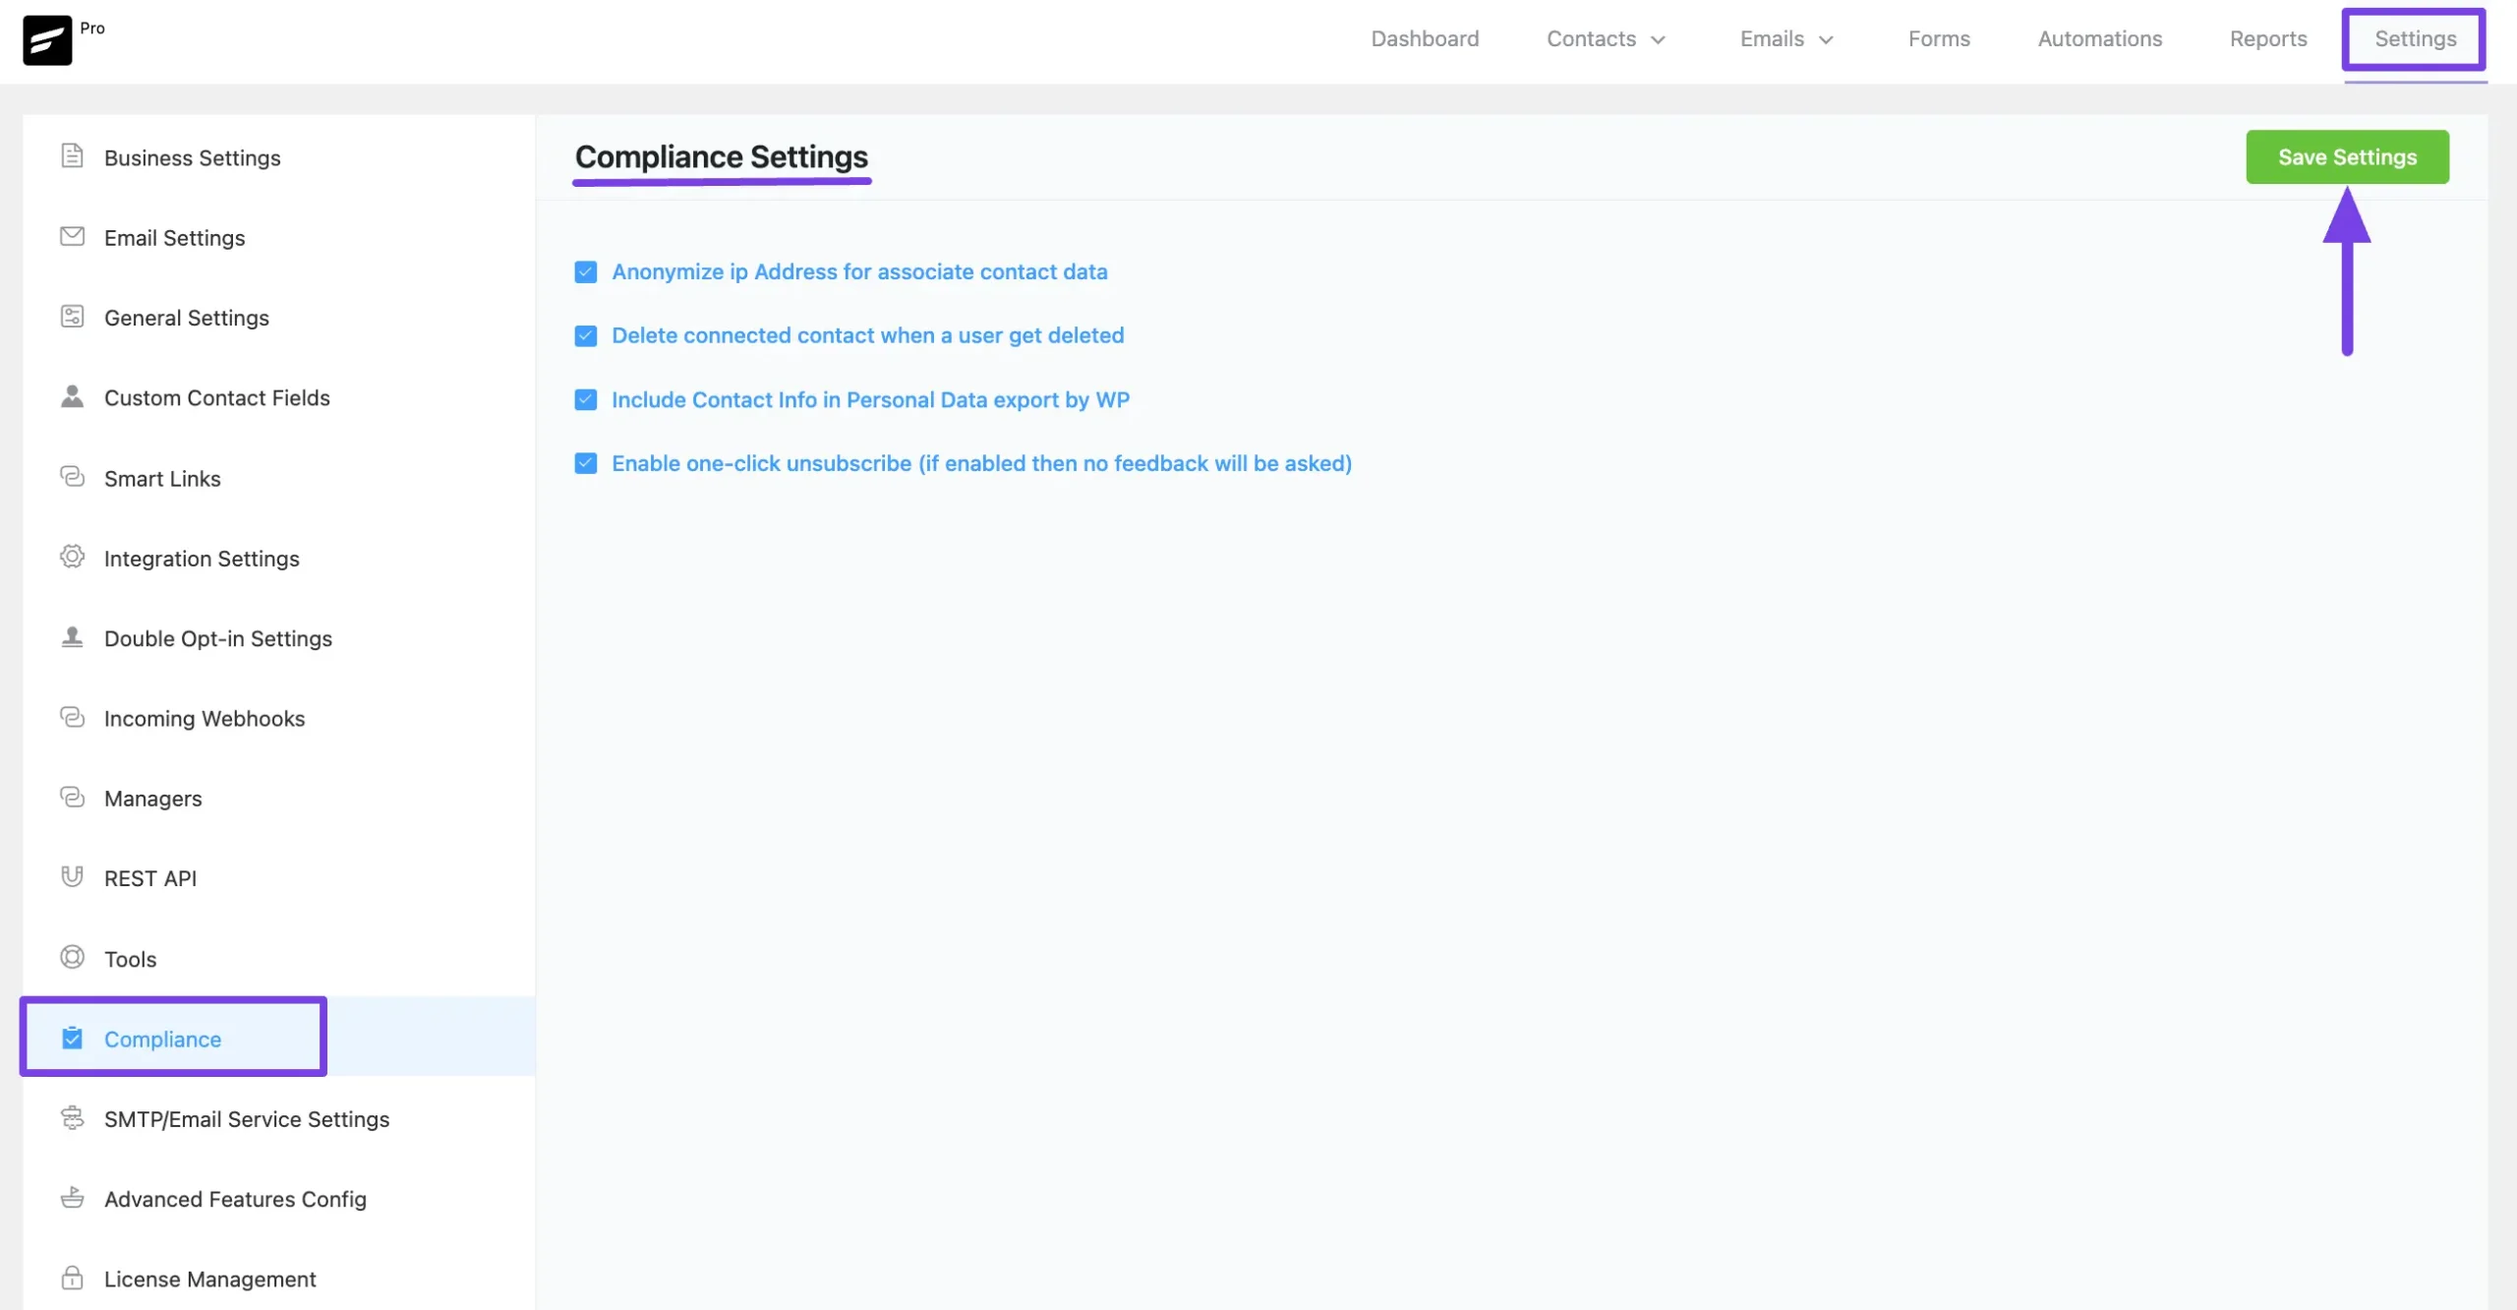
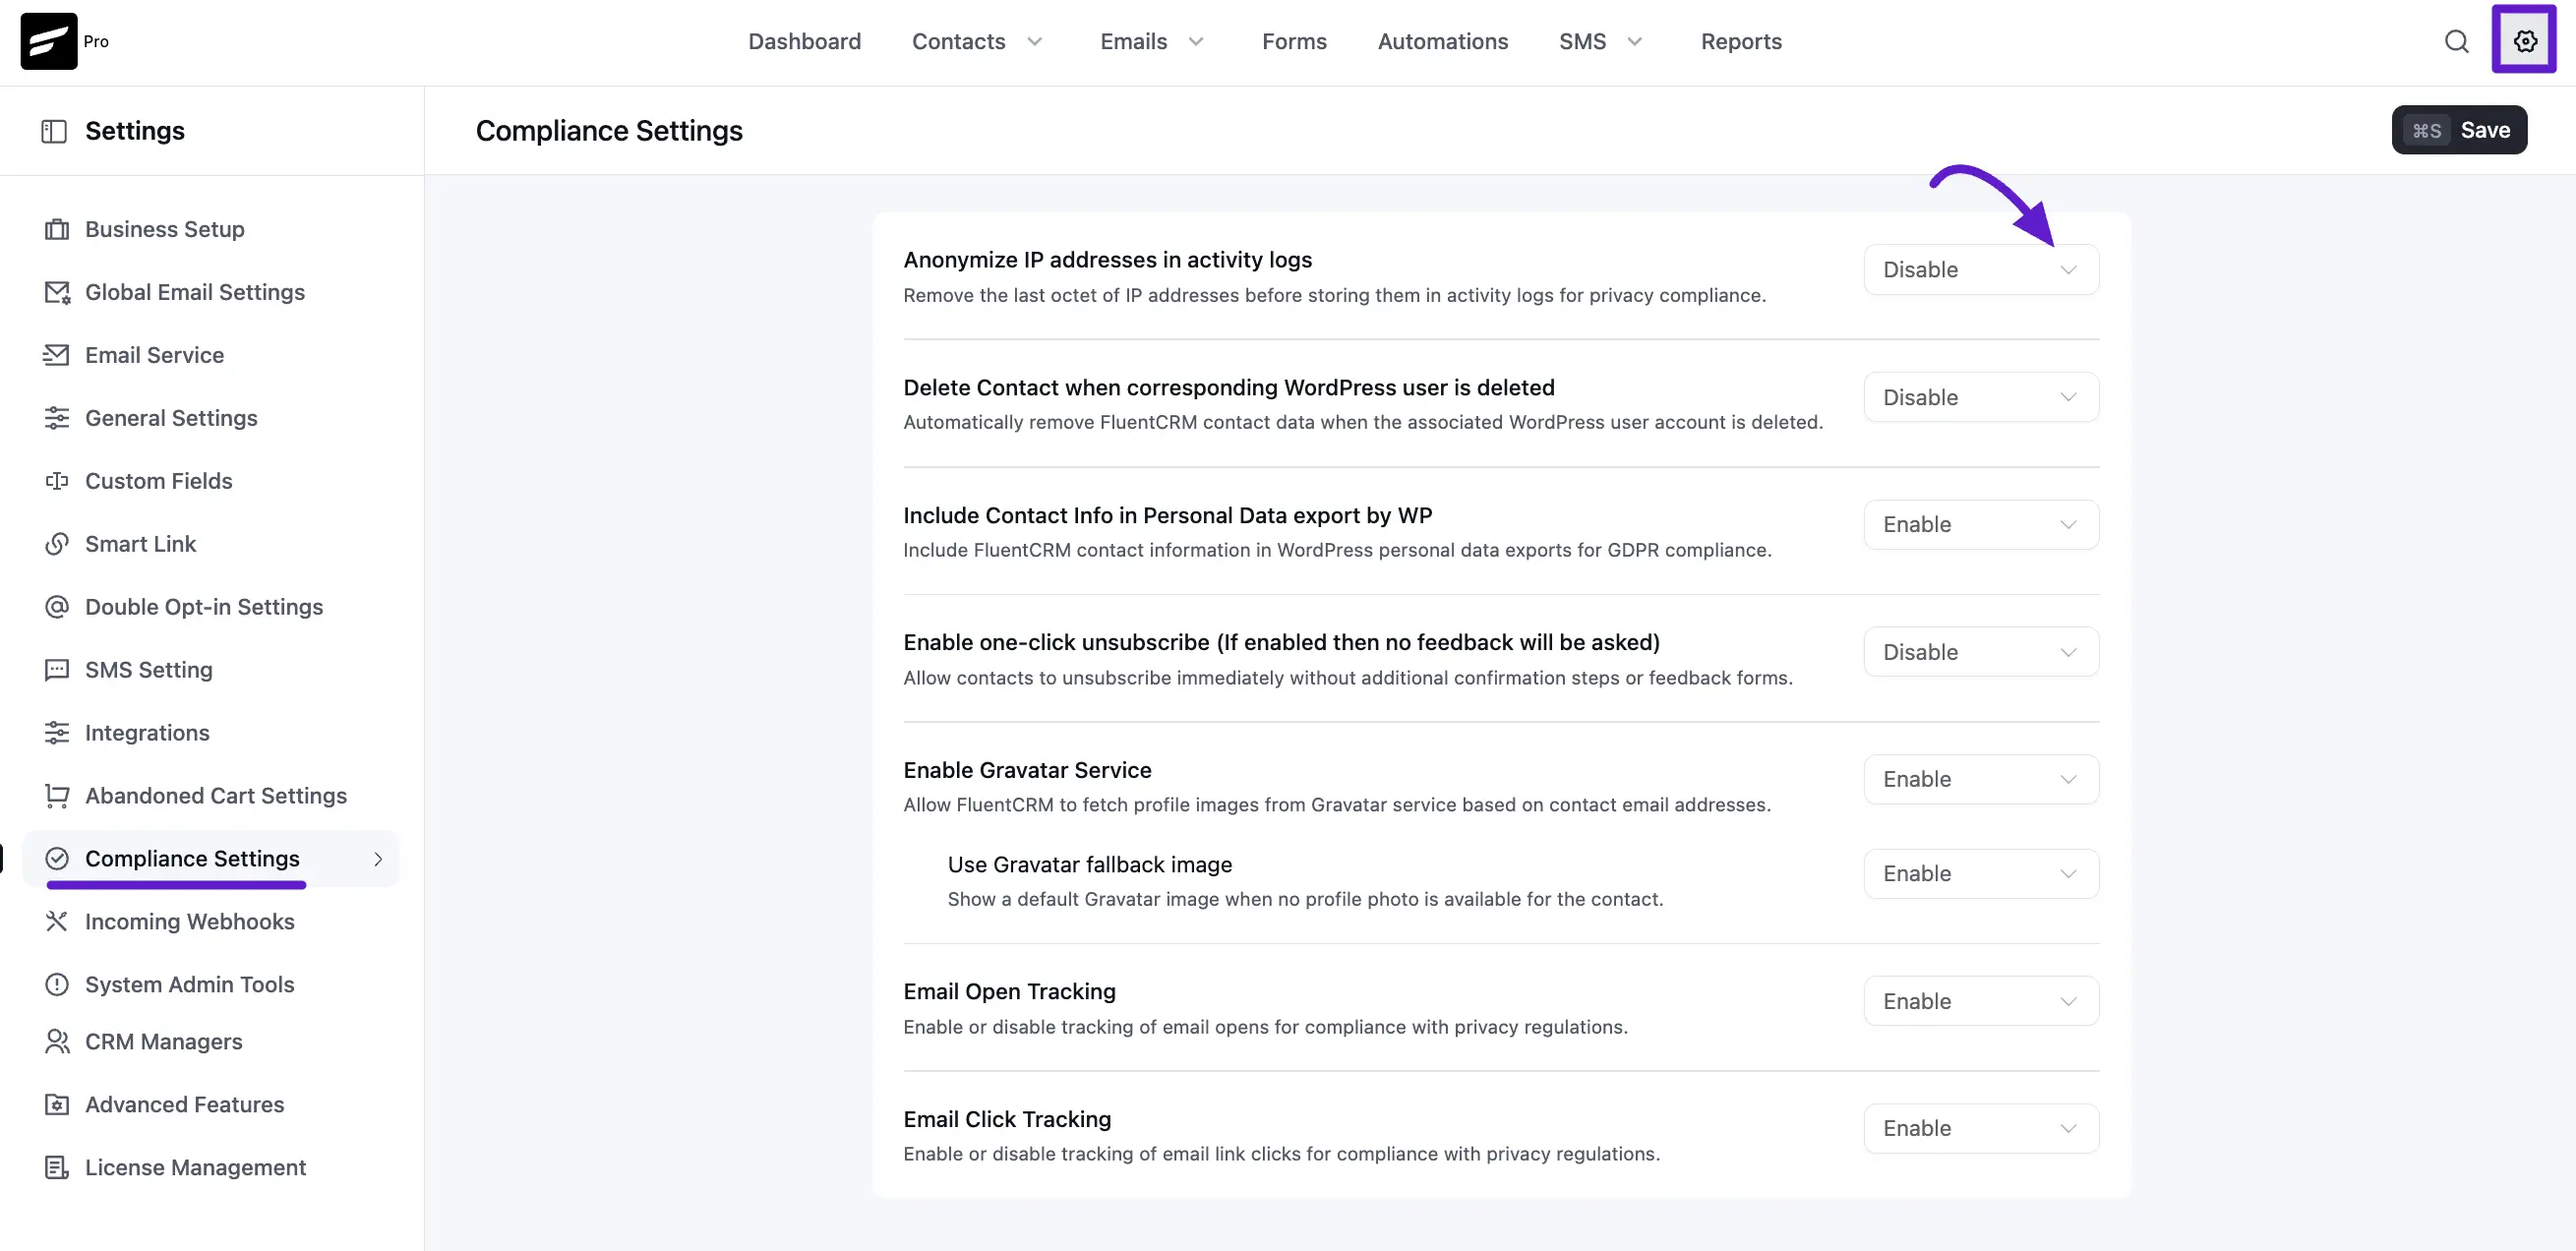
update Compliance doc

diff --git a/docs/global-settings/global-compliance-settings.md b/docs/global-settings/global-compliance-settings.md
@@ -6,26 +6,41 @@ order: 0
 ---
 
 # Compliance
+
 [FluentCRM](https://fluentcrm.com/) helps you with data protection and other compliance issues by offering specific settings to add to your Privacy Policy. This article will guide you through the process of using the Compliance settings option in Fluent CRM.
 
 ## Compliance Settings
 
-To learn how to use **Compliance** settings, follow the steps along with a screenshot below – 
 
-First, go to **Settings** from the top right corner of the **Fluent CRM Navbar** and click the **Compliance** settings option. You will now get the compliance settings options inside the **Compliance Settings** page. These are:
+First, go to **Settings** from the top right corner of the **Fluent CRM Navbar** and click the **Compliance Settings** option. 
 
--   Anonymize IP Address for associate contact data
--   Delete connected contact when a user gets deleted
--   Include Contact Info in Personal Data export by WP
--   Enable one-click unsubscribe (if enabled then no feedback will be asked)
+## Managing Compliance Settings
+
+Once you are in the **Compliance settings** page, you will see several options to help you manage data privacy. Below is a detailed breakdown of each setting:
+
+#### 1. Anonymize IP Address for Associate Contact Data
+
+When capturing customer data through forms (such as Fluent Forms), the system often records the user's IP address. Enabling this option will anonymize the IP address, ensuring that personally identifiable location data is masked for better privacy.
+
+#### 2. Delete Connected Contact when a User gets Deleted
+
+Maintaining a clean database is essential for compliance. By checking this box, FluentCRM will automatically remove the contact record from the CRM whenever the corresponding WordPress user is deleted from your site.
+
+#### 3. Include Contact Info in Personal Data Export by WP
+
+WordPress has a built-in tool for exporting personal data upon a user's request. Enabling this setting ensures that FluentCRM contact data (like tags, lists, and activity) is included in that official WordPress data export file.
+
+#### 4. Enable One-Click Unsubscribe
+
+This feature streamlines the user experience for those wishing to opt out.
+
+ * **If Enabled:** When a user clicks the unsubscribe link in your email, they are unsubscribed immediately without being redirected to a feedback or survey page.
+ * **If Disabled:** Users may be asked to provide a reason for unsubscribing, providing you with valuable feedback for your campaigns.
+
+> **Pro Tip:** Always ensure these settings align with your website's **Privacy Policy** to keep your users informed about how their data is being processed.
+
 
 ![compliance settings option under settings section of fluentcrm](/global-settings/global-compliance-settings/Compliance-Settings-option-under-Settings-section-of-FluentCRM-scaled.webp)
 
-**A brief explanation of each Setting mentioned above is given below –** 
 
--   **Anonymize IP Address for associate contact data**: This option allows you to anonymize the IP address when capturing customer data through forms (e.g., [Fluent Forms](https://fluentforms.com/) can capture the user’s IP address).
--   **Delete connected contact when a user gets deleted**: By selecting this option, you can remove a user from FluentCRM when the user is deleted from the WordPress user base.
--   **Include Contact Info in Personal Data export by WP**: Use this option to include Contact Data from FluentCRM in the WordPress data export.
--   **Enable one-click unsubscribe (if enabled then no feedback will be asked)**: If this option is enabled, no feedback will be requested upon unsubscribing.
-
-If you have any further questions, concerns, or suggestions, please do not hesitate to contact our [@support team](https://wpmanageninja.com/support-tickets/?utm_source=wpmn&utm_medium=home&utm_campaign=site#/). Thank you.
+If you have any further questions, concerns, or suggestions, please do not hesitate to contact our [support team](https://wpmanageninja.com/support-tickets/?utm_source=wpmn&utm_medium=home&utm_campaign=site#/). Thank you.
